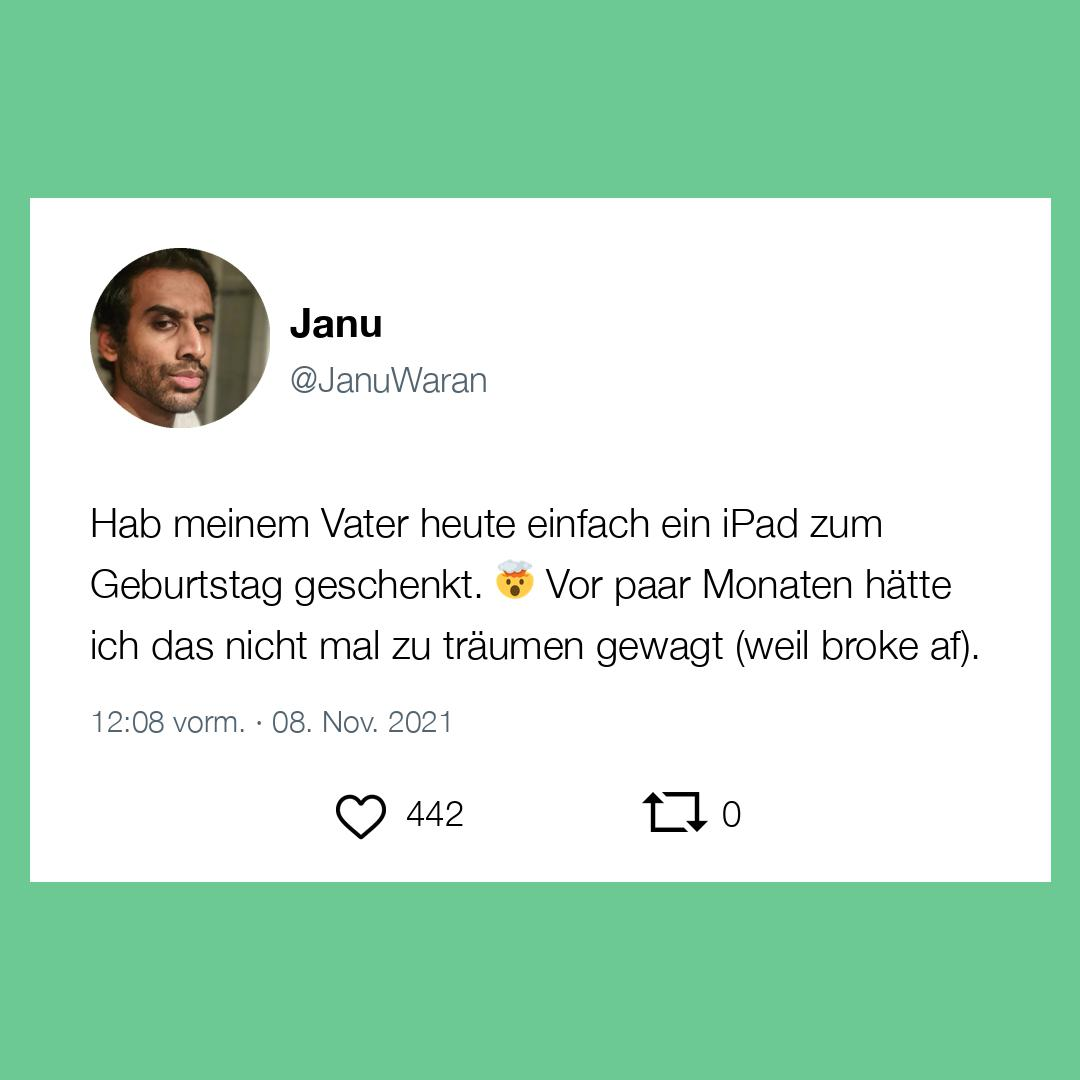
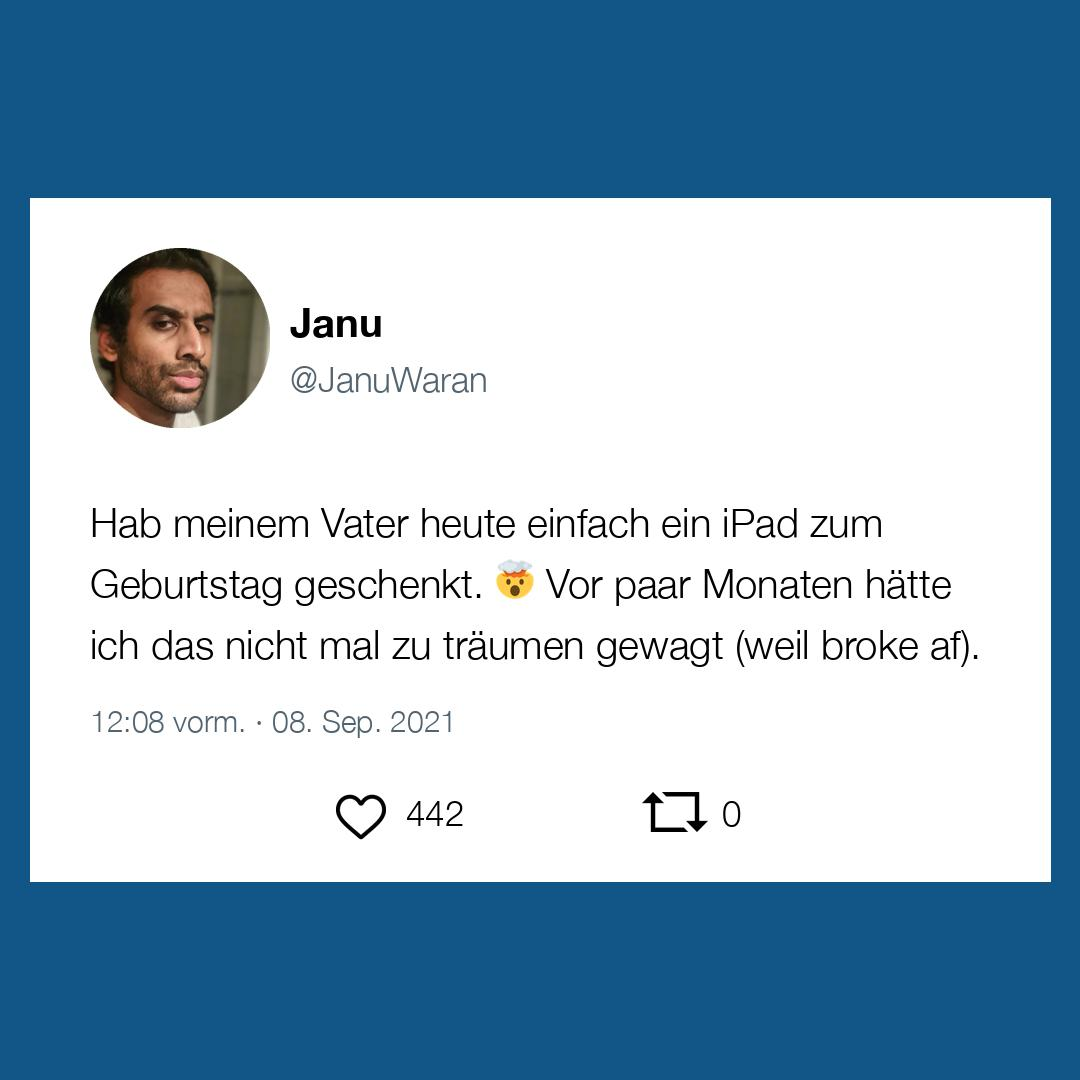
Fixed bug with wrong month names

diff --git a/main.py b/main.py
@@ -299,7 +299,7 @@ def tweet_to_image(name, username, showFavsRt, show_date, tweet, tweet_timestamp
         if int(tweet_timestamp4[0]) == 0:
             tweet_timestamp4[0] = "12"
 
-        tweet_timestamp = tweet_timestamp4[0]+":"+tweet_timestamp4[1]+" · "+tweet_timestamp3[0]+". "+months[int(tweet_timestamp2[1])+1]+" "+tweet_timestamp2[0]
+        tweet_timestamp = tweet_timestamp4[0]+":"+tweet_timestamp4[1]+" · "+tweet_timestamp3[0]+". "+months[int(tweet_timestamp2[1])-1]+" "+tweet_timestamp2[0]
         draw.text((tweet_w, fr_offset-40),tweet_timestamp,(83,100,113),font=date_font)
     img.save("tweet_images/" + str(tweet_id) + ".jpg")
     print("tweet_images/" + str(tweet_id) + ".jpg saved.")
